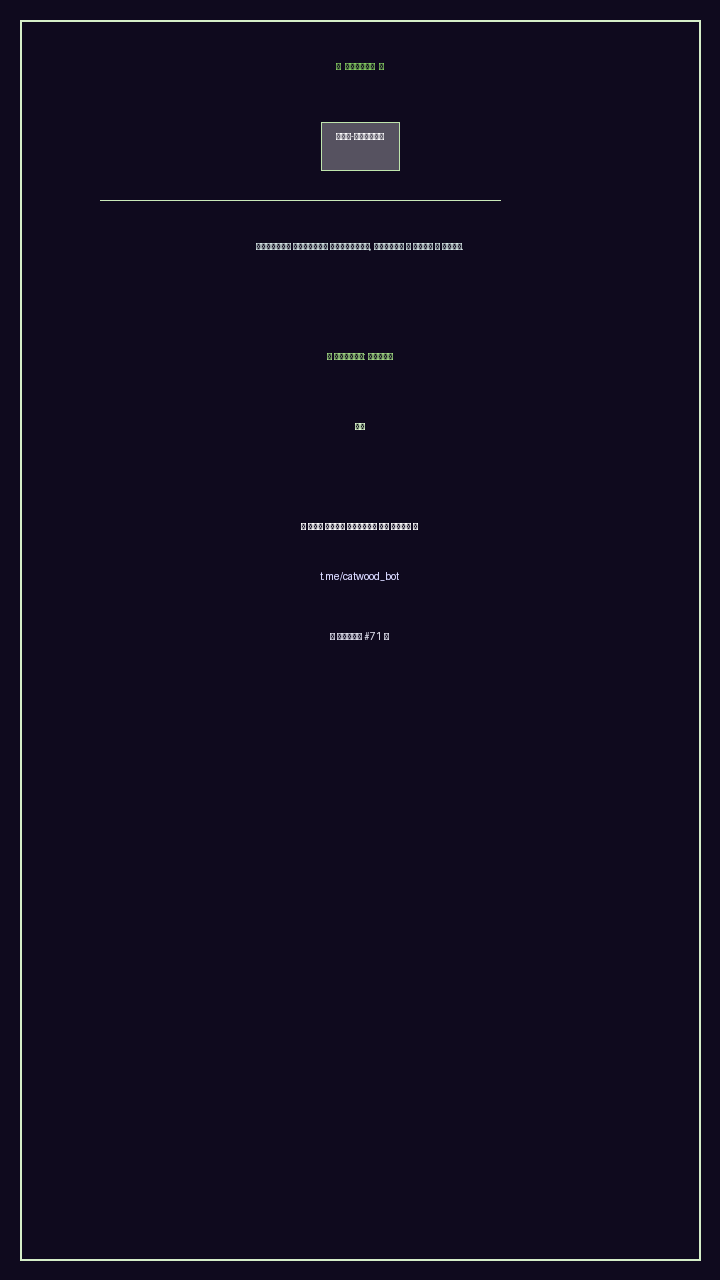
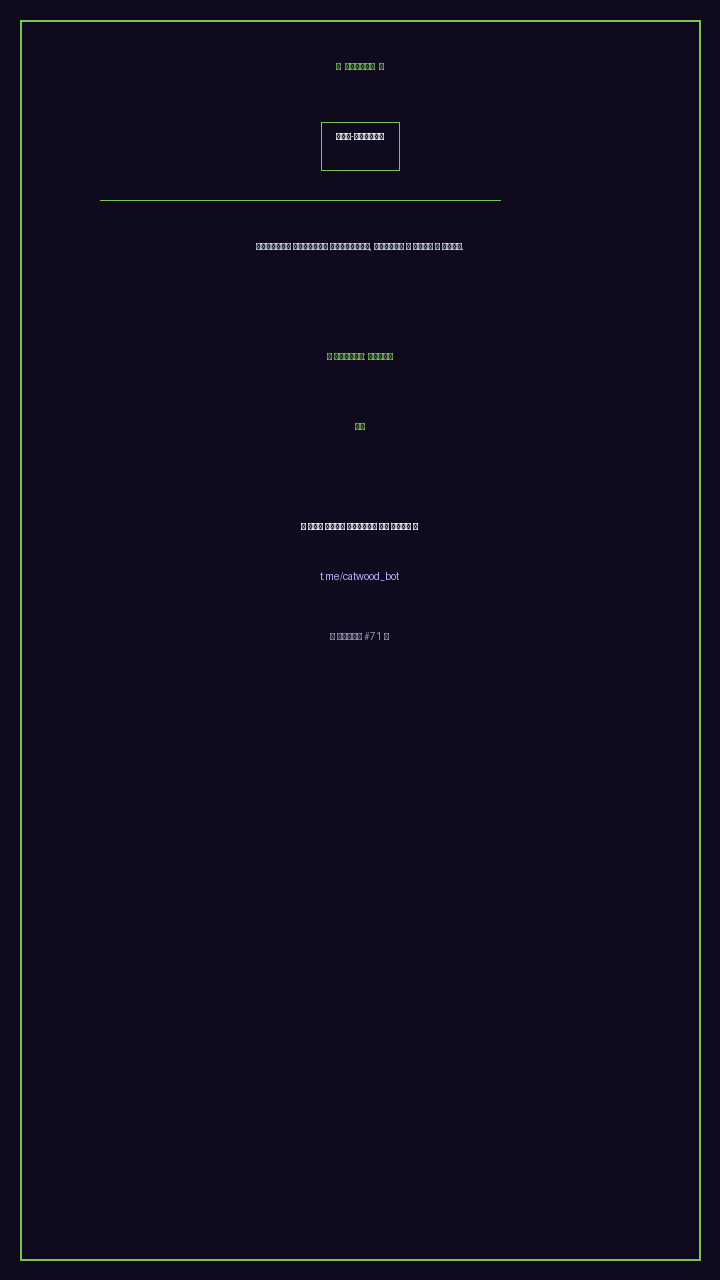
fix give_oreshek: robust error handling, RGB image

Changed region(s): [[0.4278, 0.0938, 0.5806, 0.1562], [0.4583, 0.4688, 0.5194, 0.5], [0.4583, 0.25, 0.4889, 0.2812]]

diff --git a/bot.py b/bot.py
@@ -905,13 +905,20 @@ async def give_oreshek(u,c):
                     "Тотем #71",
             parse_mode="Markdown",
         )
-    except FileNotFoundError:
+        return
+    except Exception as e:
+        logger.warning(f"give_oreshek image load failed: {e}")
+    # fallback — генеруем карточку
+    try:
         cat = {"id":71,"name":"Орешек","title":"Кот-Орешек",
                "description":"Снаружи твёрдая скорлупа, внутри — свет и сила.",
                "element":"земля","emoji":"🥜"}
-        img = gen_card(cat)
+        img = gen_card(cat)  # returns PNG bytes
         await u.message.reply_photo(photo=io.BytesIO(img),
             caption="🥜 *Кот-Орешек* 🌰 — Тотем #71", parse_mode="Markdown")
+    except Exception as e:
+        logger.error(f"give_oreshek fallback failed: {e}")
+        await u.message.reply_text("😿 *Лесные духи не смогли проявить образ...*", parse_mode="Markdown")
 
 async def async_main():
     logger.info("🌿 Дух Леса пробуждается...")
